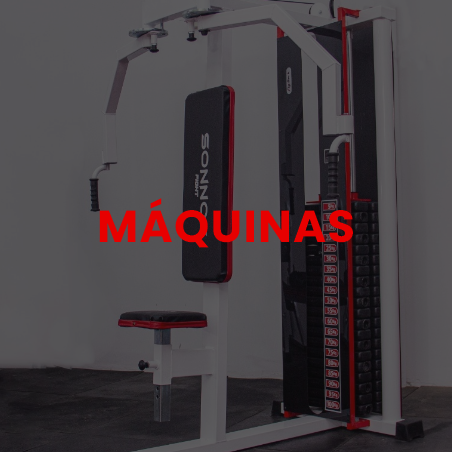
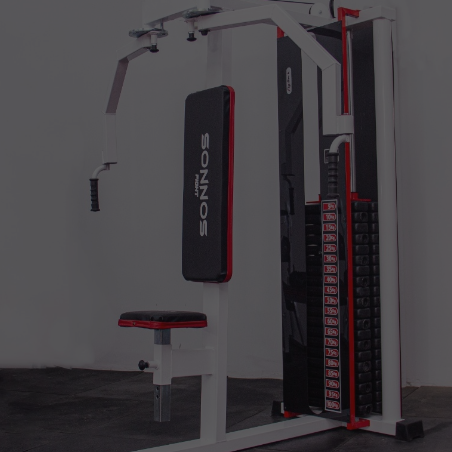
carrousel

Changed region(s): [[0.2168, 0.4336, 0.8053, 0.5575]]

diff --git a/index.html b/index.html
@@ -88,18 +88,18 @@ bicicleta mountain bike rodado, donde comprar pesas y mancuernas, multigimnasio 
 .slider {
   background: white;
   box-shadow: 0 10px 20px -5px rgba(0, 0, 0, 0.125);
-  height: 100px;
+  height: 200px;
   margin: auto;
   overflow: hidden;
   position: relative;
-  max-width: 960px;
+  max-width: 90%;
   min-width: 300px;
 }
 .slider::before, .slider::after {
   background: -webkit-gradient(linear, left top, right top, from(white), to(rgba(255, 255, 255, 0)));
   background: linear-gradient(to right, white 0%, rgba(255, 255, 255, 0) 100%);
   content: "";
-  height: 100px;
+  height: 200px;
   position: absolute;
   width: 200px;
   z-index: 2;
@@ -122,8 +122,13 @@ bicicleta mountain bike rodado, donde comprar pesas y mancuernas, multigimnasio 
   width: calc(250px * 14);
 }
 .slider .slide {
-  height: 100px;
+  height: 200px;
   width: 250px;
+  margin-bottom: 200px;
+}
+
+.slide {
+	padding: 30px;
 }
 
 </style>
@@ -333,7 +338,7 @@ bicicleta mountain bike rodado, donde comprar pesas y mancuernas, multigimnasio 
 						<div class="side-text"></div>
 						<div class="inner-box wow fadeInLeft" data-wow-delay="0ms" data-wow-duration="1500ms" style="visibility: hidden; animation-duration: 1500ms; animation-delay: 0ms; animation-name: none;">
 							<div class="icon-box">
[1 lines of base64/hex data omitted]
+								<img src="images/icons/Experiencias_Icon.png" alt="">
 							</div>
 
 							<div class="price">Experiencia</div>
@@ -348,7 +353,7 @@ bicicleta mountain bike rodado, donde comprar pesas y mancuernas, multigimnasio 
 						<div class="side-text"></div>
 						<div class="inner-box wow fadeInLeft" data-wow-delay="0ms" data-wow-duration="1500ms" style="visibility: hidden; animation-duration: 1500ms; animation-delay: 0ms; animation-name: none;">
 							<div class="icon-box">
[1 lines of base64/hex data omitted]
+								<img src="images/icons/Asesoramiento_Icon.png" alt="">
 							</div>
 							
 							<div class="price">Personalización </div>
@@ -364,7 +369,8 @@ bicicleta mountain bike rodado, donde comprar pesas y mancuernas, multigimnasio 
 						<div class="side-text"></div>
 						<div class="inner-box wow fadeInLeft" data-wow-delay="0ms" data-wow-duration="1500ms" style="visibility: hidden; animation-duration: 1500ms; animation-delay: 0ms; animation-name: none;">
 							<div class="icon-box">
[1 lines of base64/hex data omitted]
+								<img src="images/icons/Productos_Icon.png" alt="">
+
 							</div>
 							
 							<div class="price">Variedad </div>
@@ -385,7 +391,10 @@ bicicleta mountain bike rodado, donde comprar pesas y mancuernas, multigimnasio 
 		</section>
 
 
-		<img src="images/clientes.png" alt="" style="width: 100%; height:auto" class="hidemobile">
+<!-- 		<img src="images/clientes.png" alt="" style="width: 100%; height:auto" class="hidemobile"> -->
+
+
+
 		<!-- End Pricing Section -->
 
 		<!-- Testimonial Section -->
@@ -406,58 +415,49 @@ bicicleta mountain bike rodado, donde comprar pesas y mancuernas, multigimnasio 
 		</section> -->
 		<!-- End Testimonial Section -->
 		<div style="background-color: #fff;">
-<!-- 
+
 					
-<div class="slider" style="margin-top: 100px">
-	<div class="slide-track">
+<div class="slider" >
+	<div class="slide-track" style="margin-top: 30px; zoom: 120%;">
 	  <div class="slide">
-		<img src="https://mercodigital.com/images/acasalud.png"   alt="" />
+		<img src="images/clientes/1.png"   alt="" />
 	  </div>
 	  <div class="slide">
-		<img src="https://mercodigital.com/images/obarrio.png"   alt="" />
+		<img src="images/clientes/2.png"   alt="" />
 	  </div>
 	  <div class="slide">
-		<img src="https://mercodigital.com/images/thonet.png"   alt="" />
+		<img src="images/clientes/3.png"   alt="" />
 	  </div>
 	  <div class="slide">
-		<img src="https://mercodigital.com/images/falabella.png"   alt="" />
+		<img src="images/clientes/4.png"   alt="" />
 	  </div>
 	  <div class="slide">
-		<img src="https://mercodigital.com/images/cabify.png"   alt="" />
+		<img src="images/clientes/5.png"   alt="" />
 	  </div>
 	  <div class="slide">
-		<img src="https://mercodigital.com/images/gama.png"   alt="" />
+		<img src="images/clientes/6.png"   alt="" />
 	  </div>
 	  <div class="slide">
-		<img src="https://mercodigital.com/images/pointer.png"   alt="" />
+		<img src="images/clientes/7.png"   alt="" />
 	  </div>
 	  <div class="slide">
-		<img src="https://mercodigital.com/images/plavicon.png"   alt="" />
+		<img src="images/clientes/8.png"   alt="" />
 	  </div>
 	  <div class="slide">
-		<img src="https://mercodigital.com/images/kiddy.png"   alt="" />
+		<img src="images/clientes/9.png"   alt="" />
 	  </div>
 	  <div class="slide">
-		<img src="https://mercodigital.com/images/asteroptica.png"   alt="" />
+		<img src="images/clientes/10.png"   alt="" />
 	  </div>
 	  <div class="slide">
-		<img src="https://mercodigital.com/images/followme.png"  alt="" />
-	  </div>
-	  <div class="slide">
-		<img src="https://mercodigital.com/images/ledesma.png"   alt="" />
-	  </div>
-	  <div class="slide">
-		<img src="https://mercodigital.com/images/telekino.png"   alt="" />
-	  </div>
-	  <div class="slide">
-		<img src="https://mercodigital.com/images/multipoint.png"   alt="" />
+		<img src="images/clientes/11.png"  alt="" />
 	  </div>
 	</div>
-  </div> -->
+  </div> 
 		<!-- Services Section -->
 		<a name="services"></a>
 
-		<section class="services-section">
+		<section class="services-section" style="padding-top: 100px;">
 			<div class="outer-container">
 				<div class="clearfix">
 					
@@ -471,8 +471,8 @@ bicicleta mountain bike rodado, donde comprar pesas y mancuernas, multigimnasio 
 								<div class="overlay-box">
 									<div class="overlay-inner">
 										<div class="content">
-<!-- 											<h4><a data-savepage-href="body-builder.html" href="#maquinas"  >MÁQUINAS</a></h4>
- -->										</div>
+ 											<h4><a data-savepage-href="body-builder.html" href="#maquinas"  >MÁQUINAS</a></h4>
+ 										</div>
 									</div>
 								</div>
 							</div>
@@ -489,8 +489,8 @@ bicicleta mountain bike rodado, donde comprar pesas y mancuernas, multigimnasio 
 								<div class="overlay-box">
 									<div class="overlay-inner">
 										<div class="content">
-<!-- 											<h4 class="txt"><a data-savepage-href="body-builder.html" href="#maquinas"   class="txt">PRODUCTOS</a></h4>
- -->										</div>
+											<h4 class="txt"><a data-savepage-href="body-builder.html" href="#maquinas"   class="txt">PRODUCTOS</a></h4>
+										</div>
 									</div>
 								</div>
 							</div>
@@ -508,8 +508,8 @@ bicicleta mountain bike rodado, donde comprar pesas y mancuernas, multigimnasio 
 								<div class="overlay-box">
 									<div class="overlay-inner">
 										<div class="content">
-<!-- 											<h4><a data-savepage-href="body-builder.html" href="#maquinas"  >DISTRIBUIDORES</a></h4>
- -->										</div>
+											<h4><a data-savepage-href="body-builder.html" href="#maquinas"  >DISTRIBUIDORES</a></h4>
+										</div>
 									</div>
 								</div>
 								
@@ -528,8 +528,8 @@ bicicleta mountain bike rodado, donde comprar pesas y mancuernas, multigimnasio 
 								<div class="overlay-box">
 									<div class="overlay-inner">
 										<div class="content">
-<!-- 											<h4><a data-savepage-href="body-builder.html" href="#maquinas"  >SOLUCIONES PERSONALIZADAS</a></h4>
- -->										</div>
+											<h4><a data-savepage-href="body-builder.html" href="#maquinas"  >SOLUCIONES PERSONALIZADAS</a></h4>
+										</div>
 									</div>
 								</div>
 								
@@ -547,8 +547,8 @@ bicicleta mountain bike rodado, donde comprar pesas y mancuernas, multigimnasio 
 								<div class="overlay-box">
 									<div class="overlay-inner">
 										<div class="content">
-<!-- 											<h4><a data-savepage-href="body-builder.html" href="#maquinas"  >NUEVOS PROYECTOS</a></h4>
- -->										</div>
+											<h4><a data-savepage-href="body-builder.html" href="#maquinas"  >NUEVOS PROYECTOS</a></h4>
+										</div>
 									</div>
 								</div>
 								
@@ -566,8 +566,8 @@ bicicleta mountain bike rodado, donde comprar pesas y mancuernas, multigimnasio 
 								<div class="overlay-box">
 									<div class="overlay-inner">
 										<div class="content">
-<!-- 											<h4><a data-savepage-href="body-builder.html" href="#maquinas"  >HOMOLOGACION FAB</a></h4>
- -->										</div>
+											<h4><a data-savepage-href="body-builder.html" href="#maquinas"  >HOMOLOGACION FAB</a></h4>
+										</div>
 									</div>
 								</div>
 								

diff --git a/css/style.css b/css/style.css
@@ -97,6 +97,10 @@ html {
 	outline:none;
 }
 
+.content h4 {
+	font-size: 19pt!important;
+	}
+
 /*** 
 
 ====================================================================
@@ -120,6 +124,10 @@ html {
 	.service-block .inner-box {
 		margin: 0 auto;
 		width: 100%!important;
+		height: 100%!important;
+	}
+	.content h4 {
+	font-size: 15pt!important;
 	}
 	.hidemobile {
 	  display: none;
